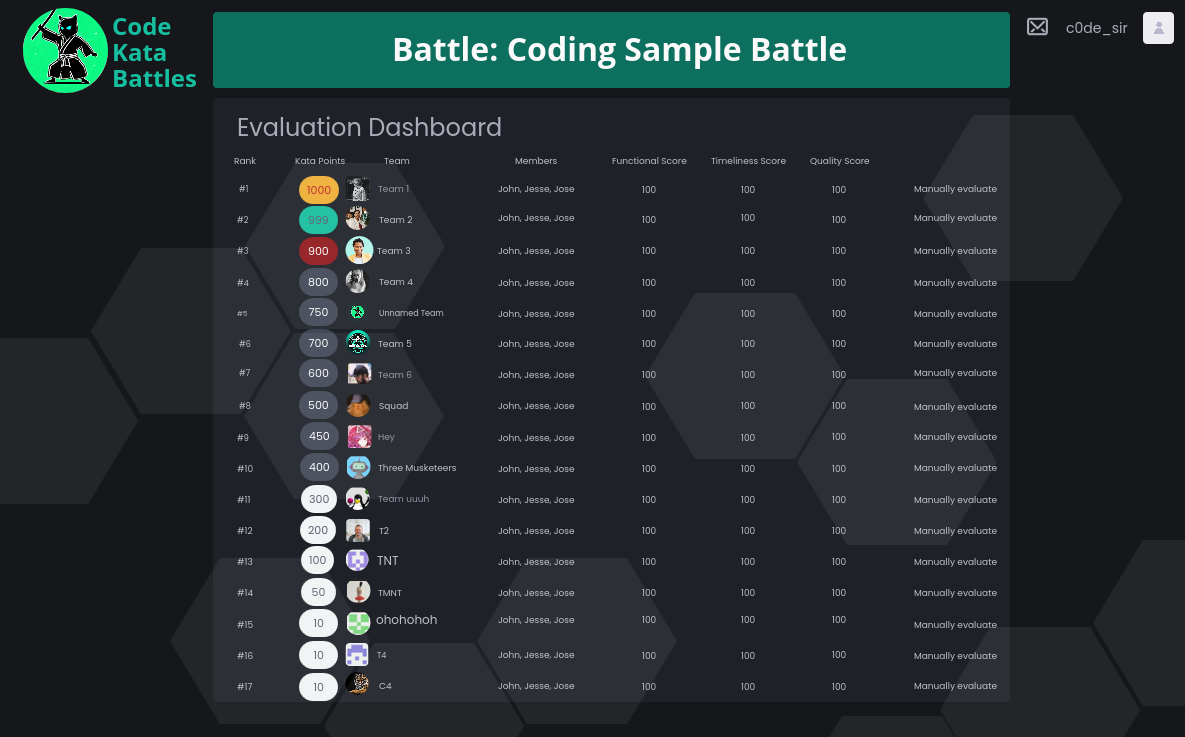
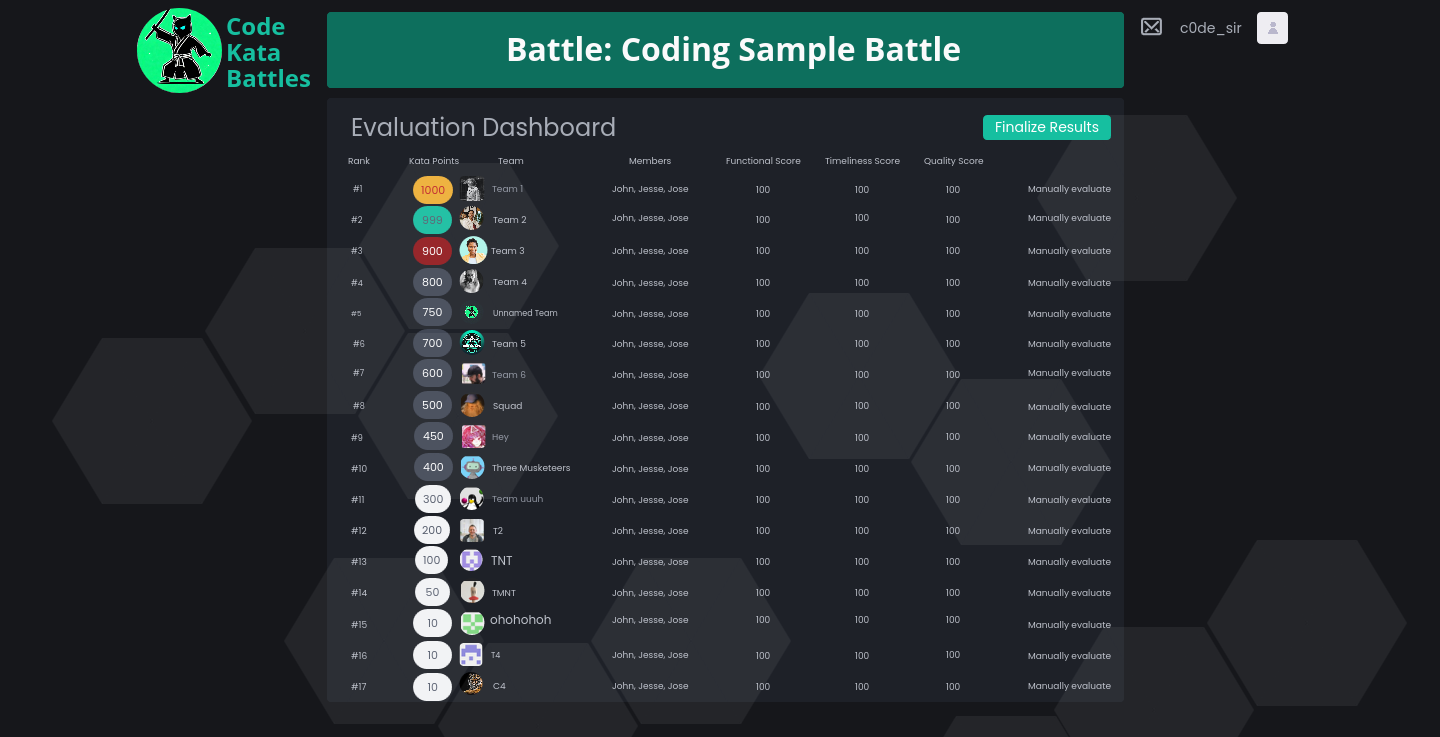
Completed Interface Design section (I really hope so)

diff --git a/DD/Latex/Chapters/3_-_User_Interface_Design.tex b/DD/Latex/Chapters/3_-_User_Interface_Design.tex
@@ -1,6 +1,6 @@
 In this section will be presented an overview of the user’s interface of the CKB platform.
 The focus will be mainly on the user experience. 
-\verb|CKB| is accessible using any browser and does not havea client application.
+\verb|CKB| is accessible using any browser and does not have a client application.
 Images shown below depicting the user interface include both samples for the desktop browser version and the mobile version.
 
 \section{General Overview}
@@ -16,8 +16,9 @@ All pages are available after the user has logged in, except for the registratio
     \end{center}
 \end{figure}
 
-DESCRIZIONE MAPPA\dots
-
+The login page prompts the user to enter their institution email and redirects them to the login page of their institution, 
+which is not part of the CKB platform so it is not shown here.
+A successful login (validated by the institution) will redirect the user to the homepage of the CKB platform, which will differ depending on the role of the user.
 
 
 \section{Registration, Login and Homepage}
@@ -41,6 +42,12 @@ create new Tournaments or CodeKataBattles directly from the Homepage.
     \end{minipage}
 \end{figure}
 
+Both the SignUp page and the LogIn page will redirect the user to the institution's login page as anticipated in Section \ref{sec: general_overview}.
+\newpage
+\section{Homepage}
+\label{sec: homepage}%
+The Homepage is the first page the user will see after logging in. 
+
 \begin{figure} [H]
     \begin{center}
         \includegraphics[width=1\linewidth]{design/student_homepage.png}
@@ -48,6 +55,16 @@ create new Tournaments or CodeKataBattles directly from the Homepage.
         \label{fig: student_homepage}
     \end{center}
 \end{figure}
+The Student Homepage (Figure \ref{fig: student_homepage}) will show a LogOut button, and 5 menu options:
+\begin{itemize}
+    \item \textbf{My Profile}: this will redirect the user to their profile page.
+    \item \textbf{Tournaments}: this page will show the list of all the tournaments available and the ones the user is currently enrolled in.
+    \item \textbf{My Battles}: this page will show the list of all the CodeKataBattles the user is currently enrolled in. This allows the student to 
+    jump directly to the page of a battle without having to go through the tournament page.
+    \item \textbf{Users}: this page will show the list of all the Students enrolled in the platform. 
+    Selecting a user from the list in this page opens the profile page of the selected user, showing Badges earned.
+    \item \textbf{Messages}: this page will show the list of all the messages received by the user, including Team Invitations and notifications about new Tournaments or Battles or the end of them.
+\end{itemize}
 
 \begin{figure} [H]
     \begin{center}
@@ -57,6 +74,23 @@ create new Tournaments or CodeKataBattles directly from the Homepage.
     \end{center}
 \end{figure}
 
+The Educator Homepage (Figure \ref{fig: educator_homepage}) will show a LogOut button, and 6 menu options:
+\begin{itemize}
+    \item \textbf{My Profile}: this will redirect the user to their profile page.
+    \item \textbf{Tournaments}: this page will show the list of all the tournaments available.
+    \item \textbf{My Battles}: this page will show the list of all the CodeKataBattles the Educator is currently administrating. This allows the educator to 
+    jump directly to the page of a battle without having to go through the tournament page.
+    \item \textbf{Users}: this page will show the list of all the Students enrolled in the platform. 
+    Selecting a user from the list in this page opens the profile page of the selected user, showing Badges earned.
+    \item \textbf{Messages}: this page will show the list of all the messages received by the user, including the start of a Battle administrated by the Educator. 
+    \item \textbf{Create new Tournament/Battle}: this page will allow the Educator to create a new Tournament/Battle.
+\end{itemize}
+
+\newpage
+\section{Profile Page}
+\label{sec: profile_page}%
+After SignUp  the user will be redirected to the Profile Creation page (Figure \ref{fig: profilecreation}), 
+where they will be asked to provide a unique personal username to be used in the \verb|CKB| platform.
 \begin{figure} [H]
     \begin{center}
         \includegraphics[width=0.45\linewidth]{design/profilecreation.png}
@@ -64,22 +98,29 @@ create new Tournaments or CodeKataBattles directly from the Homepage.
         \label{fig: profilecreation}
     \end{center}
 \end{figure}
+
+The Profile Page (Figure \ref{fig: prof_page}) will show the user's profile picture, the username, their real name and surname and the list of Badges earned.
+Clicking on a Badge will open a popup with a description of the Badge, describing how it was achieved.
 \begin{figure} [H]
     \begin{center}
-        \includegraphics[width=1\linewidth]{design/invite_other_students.png}
-        \caption{Invite other students page}
-        \label{fig: invite_others}
+        \includegraphics[width=0.5\linewidth]{design/profile_page.png}
+        \caption{CKB profile page}
+        \label{fig: prof_page}
     \end{center}
 \end{figure}
 
-\begin{figure} [H]
-    \begin{center}
-        \includegraphics[width=1\linewidth]{design/invitation_popup.png}
-        \caption{Invitation popup}
-        \label{fig: invitation_popup}
-    \end{center}
-\end{figure}
 
+
+
+
+
+\section{Tournaments and Battles}
+\label{sec: tournaments_battles}%
+Tournaments and Battles pages are simply a list of all the Tournaments/Battles available. 
+Clicking on a Tournament/Battle will open the Tournament/Battle page. No mockups are provided for these pages as they are very simple.
+
+\subsection{Leaderboards}
+\label{subsec: leaderboards}%
 \begin{figure} [H]
     \begin{center}
         \includegraphics[width=1\linewidth]{design/tournament_leaderboard.png}
@@ -87,6 +128,11 @@ create new Tournaments or CodeKataBattles directly from the Homepage.
         \label{fig: tournament_leaderboard}
     \end{center}
 \end{figure}
+The Tournament Leaderboard page (Figure \ref{fig: tournament_leaderboard}) will show the ranking of all the students enrolled in the tournament, in descending order.
+The Students who earned more points appear upper in the list. 
+The points are calculated as the sum of the points earned in each battle of the tournament.
+Each row of the leaderboard will show a Student's ranking (position), their score, their username, the badges they earned in the tournament (if any) and a button to view their profile.
+Clicking on 'View Profile' will open the profile page of the selected user.
 
 \begin{figure} [H]
     \begin{center}
@@ -95,7 +141,26 @@ create new Tournaments or CodeKataBattles directly from the Homepage.
         \label{fig: battle_leaderboard}
     \end{center}
 \end{figure}
+The Battle Leaderboard page (Figure \ref{fig: battle_leaderboard}) will show the ranking of all the Teams enrolled in the battle, in descending order.
+The Teams who earned more points appear upper in the list.
+Each row of the leaderboard will show a Team's ranking (position), their score, their name, the usernames of the members of the team and a button to view the Team Page.
+Clicking on 'View Team' will open the Team page of the selected team.
+No mockups are provided for the Team page as it is very simple: a list of the members of the team along with the public info of the members.
 
+
+\subsection*{Battle Page from both Educators and Students' perspective}
+\label{subsec: battle_page}%
+The \verb|Battle Page| will be different depending on the role of the user.
+
+A Student will see the description of the battle, the link of the GitHub repository they are supposed to work on, the list of the other Teams enrolled in the battle,
+ the username of the Educator who created the battle, the submission deadline for solutions and the registration deadline.
+In case the Battle has already started, the list of Teams participating will be replaced by the leaderboard of the Battle.
+The GitHub link will be visible only after the Battle starts.
+A sidebar on the right shows the Students belonging to the Team of the logged in user.
+In case the user and their team are not enrolled in the Battle, the sidebar will show a button to enroll in the Battle and a button to invite other Students to join the Team.
+Minimum and maximum Team capacity are shown in the sidebar.
+If the team is composed of less than the minimum number of students, the \verb|Join Battle| button will be disabled.
+If the team is composed of the maximum number of students, the \verb|Invite more| button will be disabled.
 \begin{figure} [H]
     \begin{center}
         \includegraphics[width=1\linewidth]{design/battle_page_student.png}
@@ -105,14 +170,22 @@ create new Tournaments or CodeKataBattles directly from the Homepage.
 \end{figure}
 
 
-\begin{figure} [H]
-    \begin{center}
-        \includegraphics[width=0.5\linewidth]{design/profile_page.png}
-        \caption{CKB profile page}
-        \label{fig: prof_page}
-    \end{center}
-\end{figure}
-
+An Educator will see the all the info shown to the Students except for the sidebar.
+The Educator, after the end of the Battle, will be able to evaluate the solutions submitted by the Teams.
+The evaluation page is shown in Figure \ref{fig: battle_eval}.
+An initial score is assigned to each Team (calculated by the automated evaluation system), which can be modified by the Educator. 
+The Leaderboard shows for each row:
+\begin{itemize}
+    \item the Team's ranking (position)
+    \item the Team's score
+    \item the Team's name
+    \item the usernames of the members of the team
+    \item the score automatically assigned by the system regarding the Functional Aspects of the solution
+    \item the score automatically assigned by the system regarding the Timeliness (submission time) of the solution
+    \item the score automatically assigned by the system regarding the Quality of Code aspects of the solution
+    \item a button to manually modify the Team's score examining their solution
+\end{itemize}
+A button \verb|Finalize Evaluation| allows the Educator to finalize the evaluation of the Battle and make the results available to everyone.
 \begin{figure} [H]
     \begin{center}
         \includegraphics[width=1\linewidth]{design/battle_evaluation.png}
@@ -120,3 +193,46 @@ create new Tournaments or CodeKataBattles directly from the Homepage.
         \label{fig: battle_eval}
     \end{center}
 \end{figure}
+
+
+
+
+\section{Teams and Invitations}
+\label{sec: teams_invitations}%
+
+Clicking on the \verb|Invite more| button in the Battle page (Figure \ref{fig: battle_page_student}) will open the \verb|Invite other Students| page (Figure \ref{fig: invite_others}).
+The page will show a list of all the Students enrolled in the Tournament the Battle belongs to who are not already enrolled in the Battle with a Team. 
+The user can select one or more Students from the list and click on the \verb|Invite| button to send them an invitation to join the Team. 
+The list of Students show their username, their email and the state of the invitation (Refused/Free/Joined/Pending).
+Clicking on the \verb|Invite| button will send invitations to the selected Students.
+\begin{figure} [H]
+    \begin{center}
+        \includegraphics[width=1\linewidth]{design/invite_other_students.png}
+        \caption{Invite other students page}
+        \label{fig: invite_others}
+    \end{center}
+\end{figure}
+
+
+A Student who receives an invitation will see a notification in the \verb|Messages| page.
+Opening the notification will show the invitation popup (Figure \ref{fig: invitation_popup}).
+The popup will show the name of the Student that sent the invitation, the name of the Battle.
+Clicking on the name of the Battle will open the Battle page, allowing the user to develop an informed decision about accepting or refusing the invitation.
+Clicking on the \verb|Accept| button will enroll the user in the Battle with the Team that sent the invitation.
+Clicking on the \verb|Decline| button will refuse the invitation.
+\begin{figure} [H]
+    \begin{center}
+        \includegraphics[width=0.7\linewidth]{design/invitation_popup.png}
+        \caption{Invitation popup}
+        \label{fig: invitation_popup}
+    \end{center}
+\end{figure}
+
+
+
+
+
+
+
+
+
